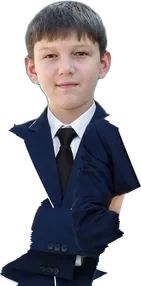
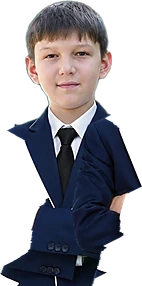
Hero: bolalar aniq va yorqin, sifatli manbadan qayta qirqildi
- Yangi yuklangan sifatli rasm (assets/hero/students.jpg, saytga chiqmaydi) cutout manbasi qilindi;
  qatlamlar 92 sifatda, yuzlar uchun yengil keskinlashtirish, yashil fon qoldiqlari tozalandi (despill)
- Bolalarni ko'kragigacha yopib turgan oq gradient olib tashlandi: faqat pastki chetda ingichka fade
- Kirish matni tepaga, nishon ostiga ko'chdi; sarlavha scroll'da xiralashmaydi
- Chekka gradientlar tepada so'nadi (bo'sh joyda chiziq ko'rinmaydi)

Claude-Session: https://claude.ai/code/session_01YV6tg3TEYhet7xApQYDz72

diff --git a/src/components/sections/hero.tsx b/src/components/sections/hero.tsx
@@ -112,9 +112,7 @@ export function Hero() {
   // The headline is in from the start; scrolling only lets it sink back a touch while the children come forward.
   const headScale = useTransform(p, [0, 1], [1, 0.95])
   const headY = useTransform(p, [0, 1], ["0%", "6%"])
-  const headOpacity = useTransform(p, [0.55, 1], [1, 0.75])
-  // The lead has done its job once the children start coming forward; fade it before it reaches their faces.
-  const leadOpacity = useTransform(p, [0.05, 0.35], [1, 0])
+  const leadOpacity = useTransform(p, [0, 0.3], [1, 0])
 
   return (
     <section
@@ -129,7 +127,7 @@ export function Hero() {
           className="pointer-events-none absolute inset-x-0 bottom-0 h-[80%] bg-[radial-gradient(55%_60%_at_50%_100%,color-mix(in_srgb,var(--color-brand-green)_26%,transparent),transparent_75%)]"
         />
 
-        <div className="relative z-30 flex justify-center px-4 pt-[calc(5.25rem+env(safe-area-inset-top))] md:pt-28">
+        <div className="relative z-30 flex flex-col items-center px-4 pt-[calc(5.25rem+env(safe-area-inset-top))] md:pt-28">
           <motion.p
             initial={{ opacity: 0, y: 16 }}
             animate={{ opacity: 1, y: 0 }}
@@ -142,12 +140,22 @@ export function Hero() {
             </span>
             {t.hero.badge}
           </motion.p>
+          {/* The lead sits up here, under the badge, so nothing covers the children. Short screens skip it. */}
+          <motion.p
+            initial={{ opacity: 0, y: 12 }}
+            animate={{ opacity: 1, y: 0 }}
+            transition={{ duration: 0.9, ease: EASE, delay: 0.9 }}
+            style={{ opacity: leadOpacity }}
+            className="mt-3 max-w-xl text-center text-sm leading-snug text-muted-foreground md:mt-4 md:text-base [@media(max-height:700px)]:hidden"
+          >
+            {t.hero.lead(RESULTS_TOTAL)}
+          </motion.p>
         </div>
 
         {/* Headline: sits behind the children, its bottom line tucked behind their heads */}
         <motion.h1
           id="hero-title"
-          style={{ scale: headScale, y: headY, opacity: headOpacity, bottom: "calc(var(--kh) * var(--hb))" }}
+          style={{ scale: headScale, y: headY, bottom: "calc(var(--kh) * var(--hb))" }}
           className="absolute inset-x-0 z-0 mx-auto max-w-[17ch] origin-bottom px-4 text-center text-[clamp(2.6rem,min(11vw,9.5svh),7.25rem)] leading-[0.98] font-extrabold tracking-[-0.035em] sm:max-w-[20ch]"
         >
           {words.map(({ w, accent }, i) => (
@@ -168,32 +176,26 @@ export function Hero() {
             <Kid key={i} i={i} progress={p} still={still} />
           ))}
           {/* Soft side edges. Painted over the children instead of a mask-image, which re-rasterised every frame. */}
-          <div className="absolute inset-y-0 -left-[2%] z-[11] w-[11%] bg-gradient-to-r from-background from-20% to-transparent" />
-          <div className="absolute inset-y-0 -right-[2%] z-[11] w-[11%] bg-gradient-to-l from-background from-20% to-transparent" />
+          <div className="absolute inset-y-0 -left-[2%] z-[11] w-[11%] bg-gradient-to-r from-background from-20% to-transparent [mask-image:linear-gradient(to_bottom,transparent_25%,black_45%)]" />
+          <div className="absolute inset-y-0 -right-[2%] z-[11] w-[11%] bg-gradient-to-l from-background from-20% to-transparent [mask-image:linear-gradient(to_bottom,transparent_25%,black_45%)]" />
         </div>
 
-        {/* Bottom: the lead line and actions over a soft fade, so they read on top of the blazers.
-            Phones get their actions from the fixed bottom bar (MobileCta) instead. */}
+        {/* Bottom: only a short fade to hide where the photo is cut, so the children stay vivid; the actions sit
+            on it. Phones get their actions from the fixed bottom bar (MobileCta) instead. */}
         <motion.div
           initial={{ opacity: 0, y: 20 }}
           animate={{ opacity: 1, y: 0 }}
           transition={{ duration: 0.9, ease: EASE, delay: 1 }}
-          className="absolute inset-x-0 bottom-0 z-20 bg-gradient-to-t from-background via-background/85 to-transparent px-5 pt-20 pb-[calc(5.5rem+env(safe-area-inset-bottom))] text-center md:pt-28 md:pb-8"
+          className="pointer-events-none absolute inset-x-0 bottom-0 z-20 flex h-28 items-end justify-center bg-gradient-to-t from-background from-15% to-transparent px-5 pb-[env(safe-area-inset-bottom)] md:h-36 md:pb-8"
         >
-          <motion.p
-            style={{ opacity: leadOpacity }}
-            className="mx-auto max-w-xl text-[0.95rem] leading-snug font-medium text-foreground/80 md:text-lg"
-          >
-            {t.hero.lead(RESULTS_TOTAL)}
-          </motion.p>
-          <div className="mt-5 hidden justify-center gap-3 md:flex">
+          <div className="pointer-events-auto hidden justify-center gap-3 md:flex">
             <Button asChild variant="accent" size="lg" className="group">
               <a href="#ariza">
                 {t.hero.cta}
                 <ArrowRight className="transition-transform duration-300 group-hover:translate-x-1" />
               </a>
             </Button>
-            <Button asChild variant="outline" size="lg" className="bg-card/80 backdrop-blur">
+            <Button asChild variant="outline" size="lg" className="bg-card/90">
               <a href={CONTACT.phoneHref}>
                 <Phone /> {CONTACT.phone}
               </a>

diff --git a/src/data/hero-cutouts.ts b/src/data/hero-cutouts.ts
@@ -6,12 +6,12 @@ export const HERO_CUTOUTS = {
   sizes: [1000, 2000],
   kids: [
     { x: 0.0, y: 39.932, w: 13.45, h: 60.068 },
-    { x: 8.85, y: 37.443, w: 15.15, h: 62.557 },
-    { x: 19.2, y: 35.181, w: 14.1, h: 64.819 },
-    { x: 28.4, y: 32.805, w: 14.65, h: 67.195 },
-    { x: 39.0, y: 30.543, w: 13.6, h: 69.457 },
-    { x: 47.2, y: 30.43, w: 14.6, h: 69.57 },
-    { x: 56.55, y: 32.805, w: 14.3, h: 67.195 },
+    { x: 8.85, y: 37.33, w: 15.15, h: 62.67 },
+    { x: 19.15, y: 35.181, w: 14.15, h: 64.819 },
+    { x: 28.35, y: 32.805, w: 14.9, h: 67.195 },
+    { x: 38.05, y: 30.543, w: 14.55, h: 69.457 },
+    { x: 47.45, y: 30.543, w: 14.05, h: 69.457 },
+    { x: 56.8, y: 32.805, w: 14.0, h: 67.195 },
     { x: 65.65, y: 35.181, w: 14.45, h: 64.819 },
     { x: 76.05, y: 37.33, w: 16.6, h: 62.67 },
     { x: 86.45, y: 39.819, w: 13.55, h: 60.181 },

diff --git a/scripts/cutout.py b/scripts/cutout.py
@@ -4,7 +4,7 @@ Cuts the students out of the hero banner and splits them into one layer per chil
     pip install "rembg[cpu]" pillow numpy
     npm run cutout
 
-Reads public/hero/students-2000.webp (left untouched) and writes:
+Reads assets/hero/students.jpg (the full-quality original, not shipped with the site; left untouched) and writes:
 - public/hero/cutouts/students.webp      the whole group on a transparent background
 - public/hero/cutouts/kid-<n>-<w>.webp    one cropped layer per child, 1000 and 2000 px wide canvases
 - src/data/hero-cutouts.ts                where each layer sits on the canvas, in percent
@@ -21,7 +21,7 @@ from PIL import Image, ImageFilter
 from rembg import new_session, remove
 
 ROOT = Path(__file__).resolve().parent.parent
-SRC = ROOT / "public/hero/students-2000.webp"
+SRC = ROOT / "assets/hero/students.jpg"
 OUT = ROOT / "public/hero/cutouts"
 MANIFEST = ROOT / "src/data/hero-cutouts.ts"
 MODEL = "birefnet-portrait"
@@ -53,9 +53,17 @@ def main() -> None:
     OUT.mkdir(parents=True, exist_ok=True)
     banner = Image.open(SRC).convert("RGB")
     group = remove(banner, session=new_session(MODEL))
-    group.save(OUT / "students.webp", quality=85, method=6)
-
-    rgba = np.asarray(group)
+    rgba = np.asarray(group).copy()
+    # Despill: the old green backdrop shows through along the cut edges (hair, shoulders) and in the gaps between
+    # the children. There green may be no stronger than the brighter of red and blue; elsewhere only clearly
+    # green pixels are touched (nothing in the uniforms or on the faces is green).
+    a = Image.fromarray(rgba[..., 3])
+    edge = np.asarray(a.filter(ImageFilter.MaxFilter(9))) > 0
+    edge &= np.asarray(a.filter(ImageFilter.MinFilter(9))) < 250
+    r, g, b = (rgba[..., c].astype(np.int16) for c in range(3))
+    cap = np.maximum(r, b) + 4
+    green = (g > cap) & (edge | (g > np.maximum(r, b) + 24))
+    rgba[..., 1] = np.where(green, cap, g).clip(0, 255).astype(np.uint8)
     alpha = rgba[..., 3].astype(np.float32) / 255
     gray = banner.convert("L").filter(ImageFilter.GaussianBlur(1.5))
     edges = np.asarray(gray.filter(ImageFilter.FIND_EDGES), dtype=np.float32) / 255
@@ -81,7 +89,11 @@ def main() -> None:
         for target in WIDTHS:
             k = target / w
             size = (max(1, round((x1 - x0) * k)), max(1, round((y1 - y0) * k)))
-            crop.resize(size, Image.LANCZOS).save(OUT / f"kid-{i + 1}-{target}.webp", quality=82, method=6)
+            out = crop.resize(size, Image.LANCZOS)
+            # A light unsharp mask on the colour only: faces read crisp at large sizes; edges stay soft.
+            rgb = out.convert("RGB").filter(ImageFilter.UnsharpMask(radius=1.2, percent=70, threshold=2))
+            rgb.putalpha(out.getchannel("A"))
+            rgb.save(OUT / f"kid-{i + 1}-{target}.webp", quality=92, method=6)
         layers.append(
             {
                 "x": round(x0 / w * 100, 3),
@@ -92,6 +104,7 @@ def main() -> None:
         )
 
     data = json.dumps({"width": w, "height": h, "sizes": WIDTHS, "kids": layers})
+    Image.fromarray(rgba).save(OUT / "students.webp", quality=85, method=6)
     MANIFEST.write_text(f"// Generated by `npm run cutout` (scripts/cutout.py). Do not edit by hand.\n\nexport const HERO_CUTOUTS = {data} as const\n")
     print(f"{len(layers)} layers written to {OUT.relative_to(ROOT)}")
 
